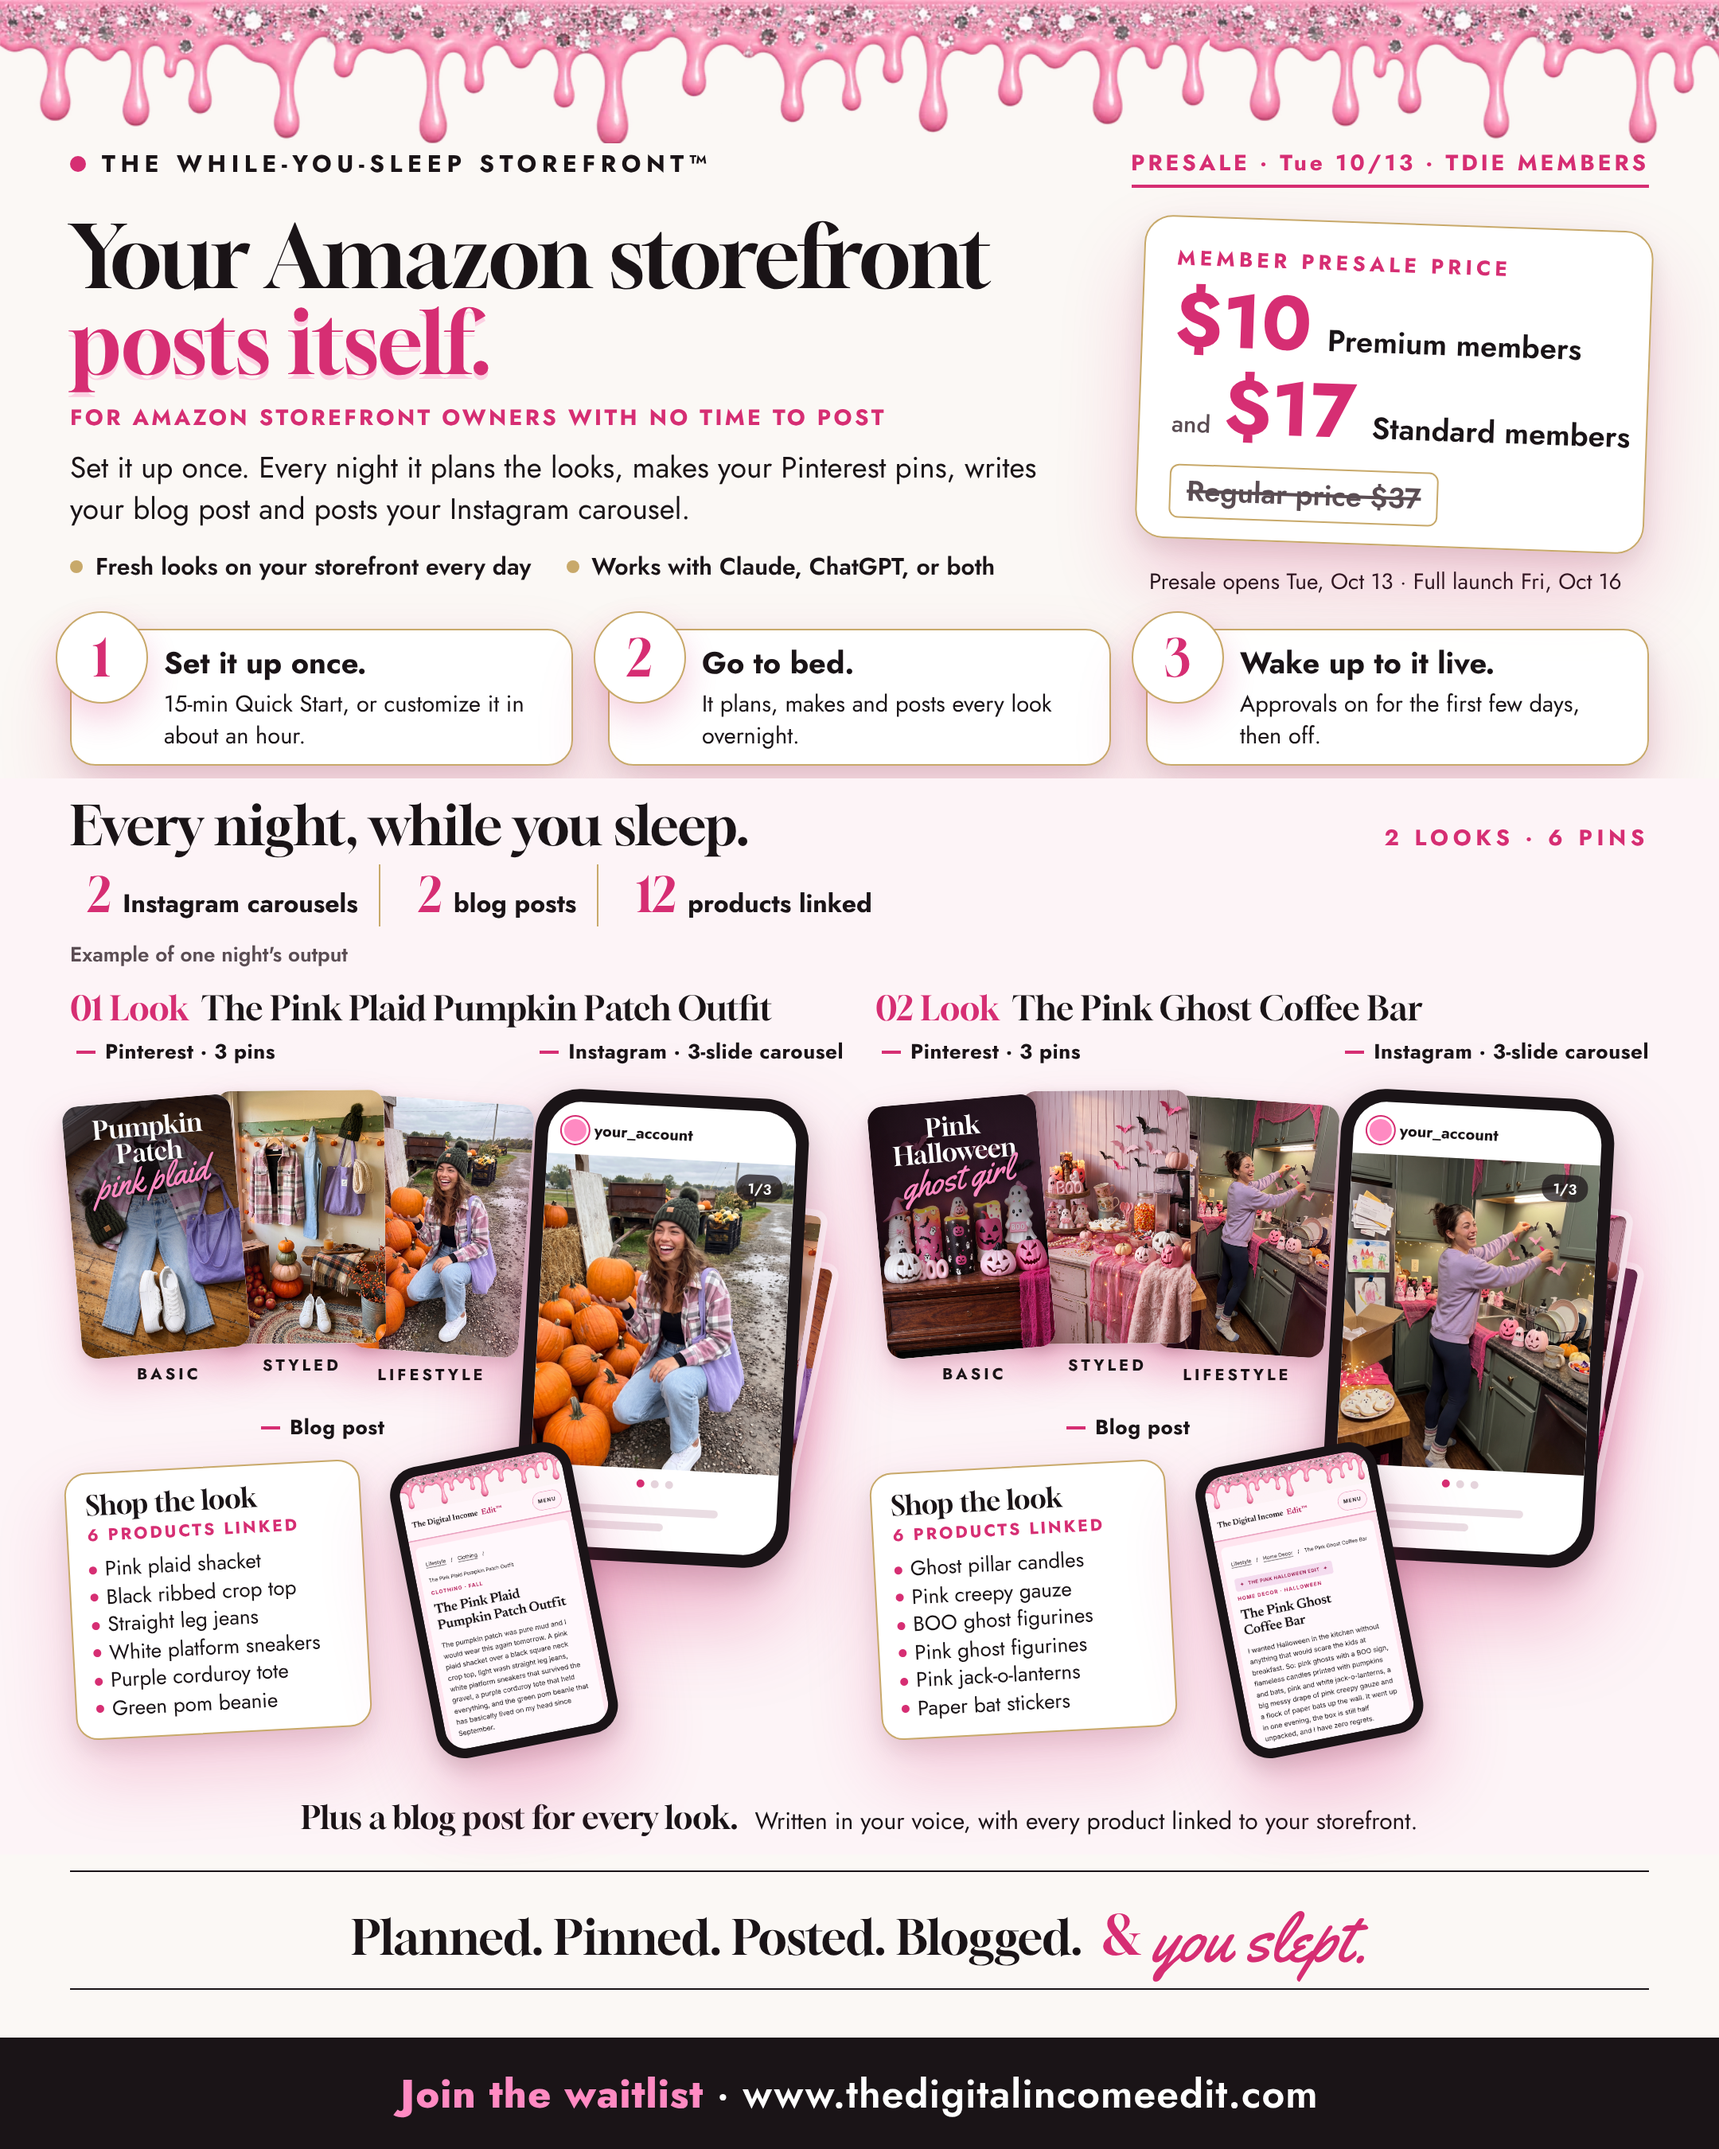
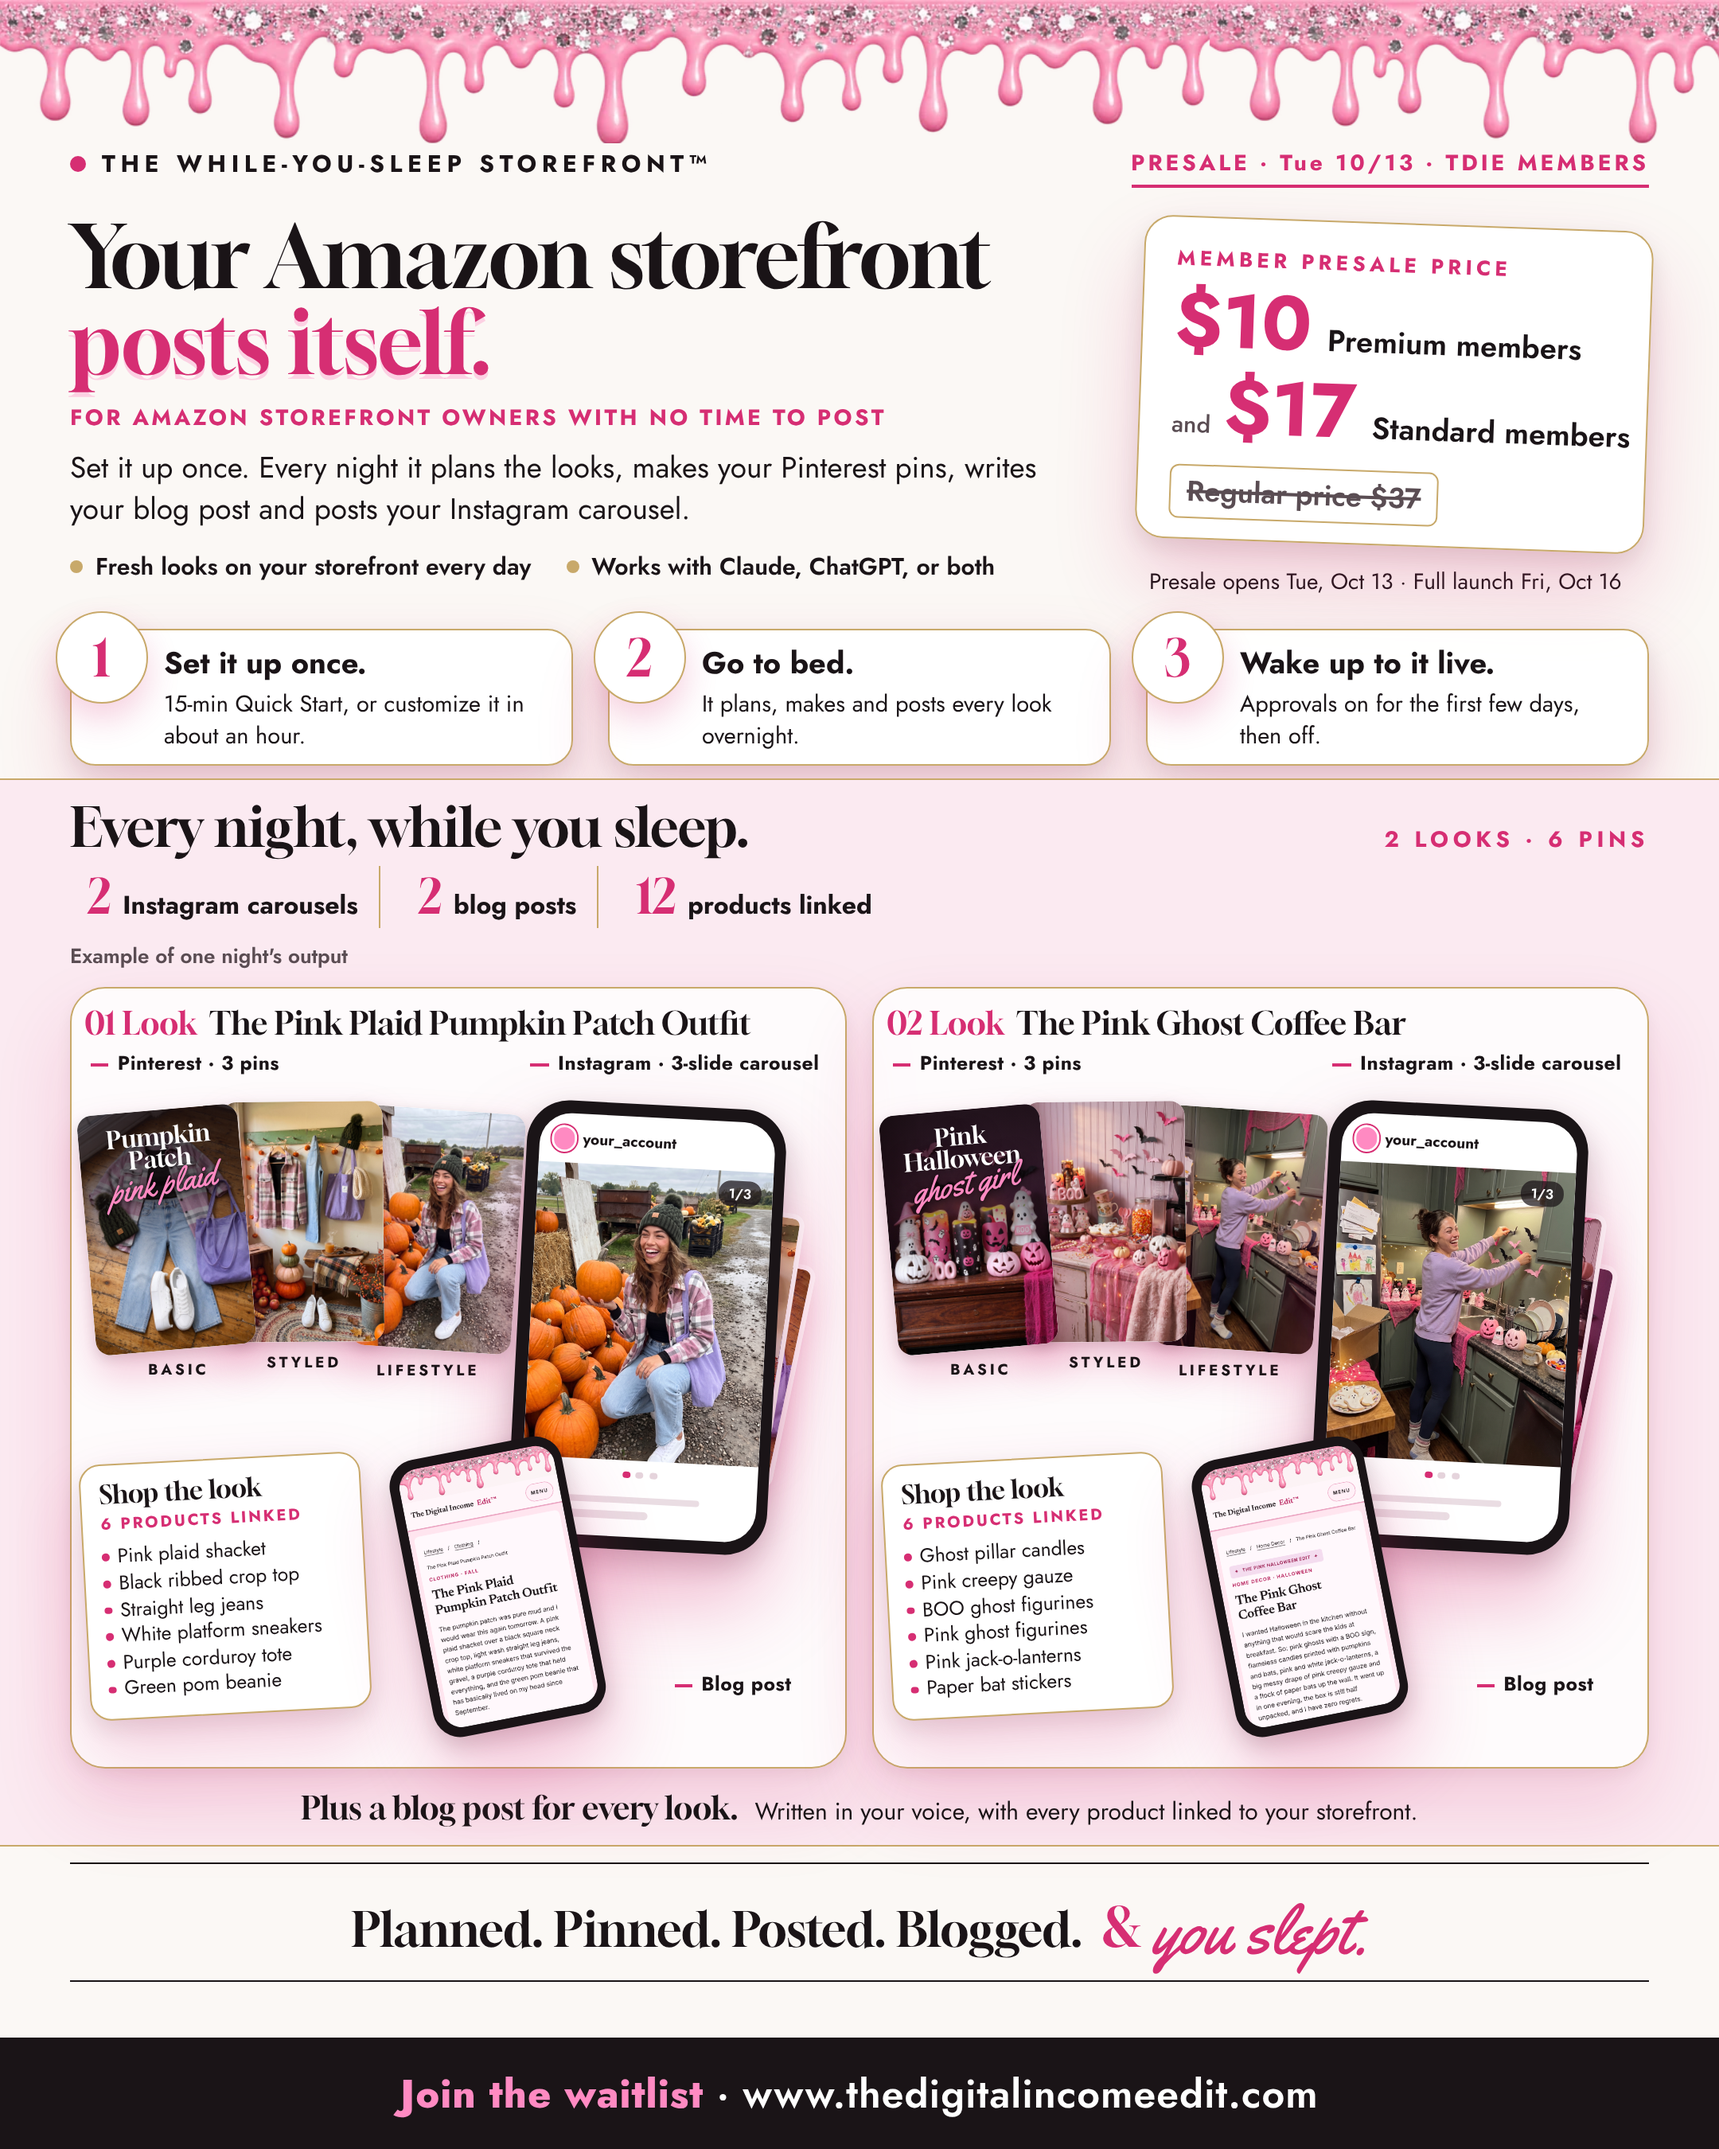
WYS poster: visual separation between sections and looks
Each look on its own white card, gold rules framing the looks panel,
Blog post label moved next to the blog phone.

Claude-Session: https://claude.ai/code/session_01PnXq8563XBZe9JqR7UM4ct

diff --git a/ops/posters/wys-presale-2026-10/poster.html b/ops/posters/wys-presale-2026-10/poster.html
@@ -480,6 +480,16 @@ h2 { font-family:"Gloock",serif; font-weight:400; font-size:38px; line-height:1.
 .skool .hero { grid-template-columns:minmax(0,1fr) 430px; }
 .skool .perks { flex-direction:column; gap:6px; }
 .skool .blogline { font-size:19px; text-wrap:balance; }
+
+/* ===== visual separation ===== */
+.panel { background:#FBEAF1; border-top:1px solid var(--gold); border-bottom:1px solid var(--gold); }
+.lookcard { background:rgba(255,255,255,0.78); border:1px solid var(--gold); border-radius:22px; padding:12px 10px 8px;
+  box-shadow:0 24px 48px rgba(214,46,115,0.16), 0 4px 10px rgba(26,20,23,0.06), inset 0 1px 0 #fff; }
+.fb .comps { gap:16px; margin-top:10px; }
+.fb .lookcard { padding:10px 8px 4px; }
+.fb .comp { zoom:0.95; }
+.skool .lookcard { padding:26px 22px 18px; }
+.blogline { padding-top:4px; }
 </style>
 </head>
 <body>
@@ -526,7 +536,7 @@ h2 { font-family:"Gloock",serif; font-weight:400; font-size:38px; line-height:1.
 
       <div class="example">Example of one night's output</div>
       <div class="comps">
-        <div class="comp">
+        <div class="lookcard"><div class="comp">
           <div class="c-head"><span class="n">01 Look</span><span class="t">The Pink Plaid Pumpkin Patch Outfit</span></div>
           <span class="ctag" style="left:4px;top:30px">Pinterest · 3 pins</span>
           <div class="cpin p1"><div class="pin pin-basic"><img src="img/pink-plaid-pumpkin-patch-outfit-basic.jpg" alt=""><div class="lockup"><span class="serif">Pumpkin<br>Patch</span><span class="script">pink plaid</span></div></div><div class="cap">BASIC</div></div>
@@ -543,9 +553,9 @@ h2 { font-family:"Gloock",serif; font-weight:400; font-size:38px; line-height:1.
           </div></div>
           <div class="cidea"><div class="ih">Shop the look</div><div class="is">6 products linked</div><ul><li>Pink plaid shacket</li><li>Black ribbed crop top</li><li>Straight leg jeans</li><li>White platform sneakers</li><li>Purple corduroy tote</li><li>Green pom beanie</li></ul></div>
           <div class="cblog"><div class="phone"><img src="img/blog-pink-plaid-pumpkin-patch-outfit.png" alt=""></div></div>
-          <span class="ctag" style="left:120px;top:266px">Blog post</span>
-        </div>
-        <div class="comp">
+          <span class="ctag" style="left:390px;top:440px">Blog post</span>
+        </div></div>
+        <div class="lookcard"><div class="comp">
           <div class="c-head"><span class="n">02 Look</span><span class="t">The Pink Ghost Coffee Bar</span></div>
           <span class="ctag" style="left:4px;top:30px">Pinterest · 3 pins</span>
           <div class="cpin p1"><div class="pin pin-basic"><img src="img/pink-ghost-coffee-bar-basic.jpg" alt=""><div class="lockup"><span class="serif">Pink<br>Halloween</span><span class="script">ghost girl</span></div></div><div class="cap">BASIC</div></div>
@@ -562,8 +572,8 @@ h2 { font-family:"Gloock",serif; font-weight:400; font-size:38px; line-height:1.
           </div></div>
           <div class="cidea"><div class="ih">Shop the look</div><div class="is">6 products linked</div><ul><li>Ghost pillar candles</li><li>Pink creepy gauze</li><li>BOO ghost figurines</li><li>Pink ghost figurines</li><li>Pink jack-o-lanterns</li><li>Paper bat stickers</li></ul></div>
           <div class="cblog"><div class="phone"><img src="img/blog-pink-ghost-coffee-bar.png" alt=""></div></div>
-          <span class="ctag" style="left:120px;top:266px">Blog post</span>
-        </div>
+          <span class="ctag" style="left:390px;top:440px">Blog post</span>
+        </div></div>
       </div>
       <div class="blogline"><b>Plus a blog post for every look.</b> Written in your voice, with every product linked to your storefront.</div>
     </div>
